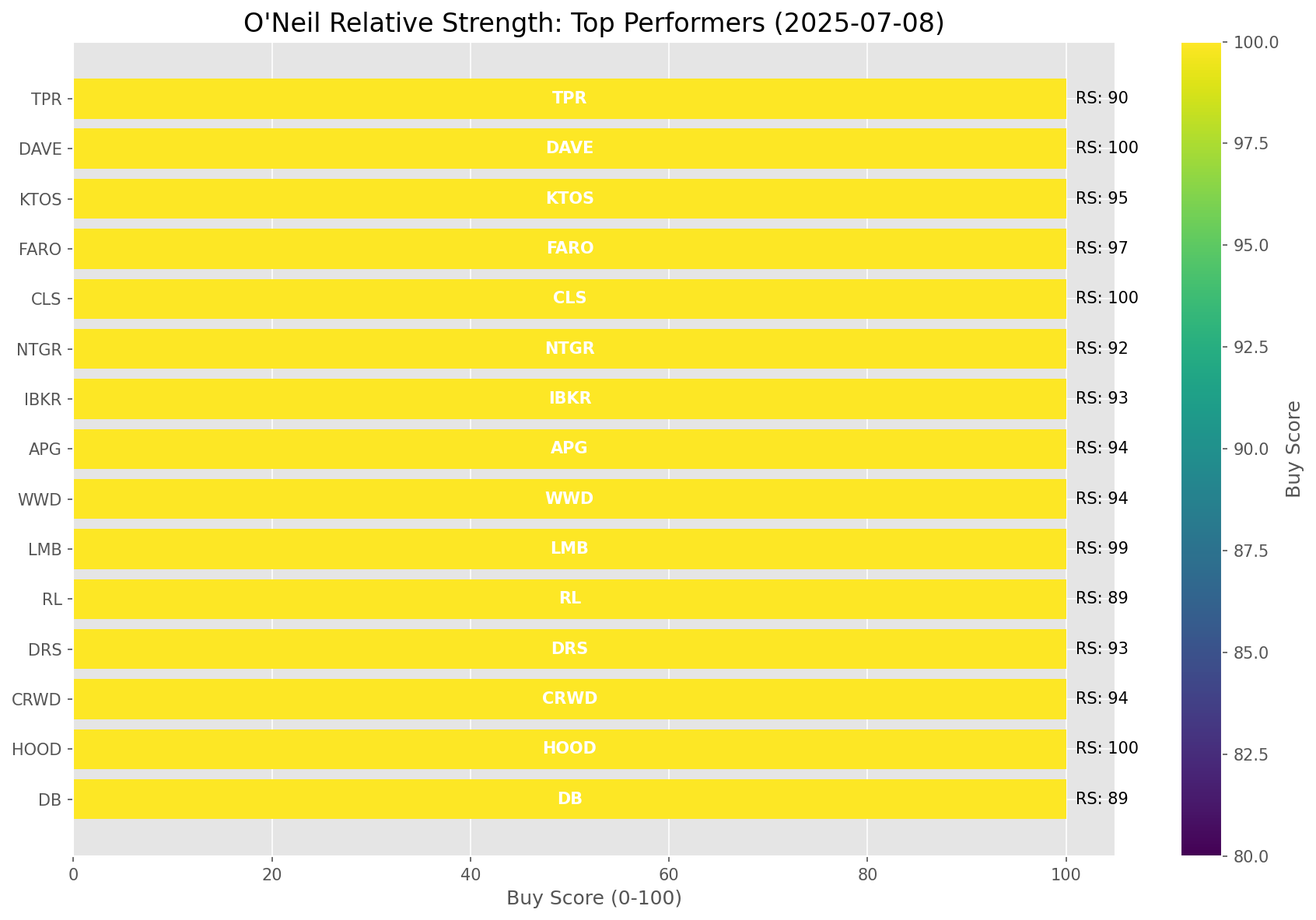
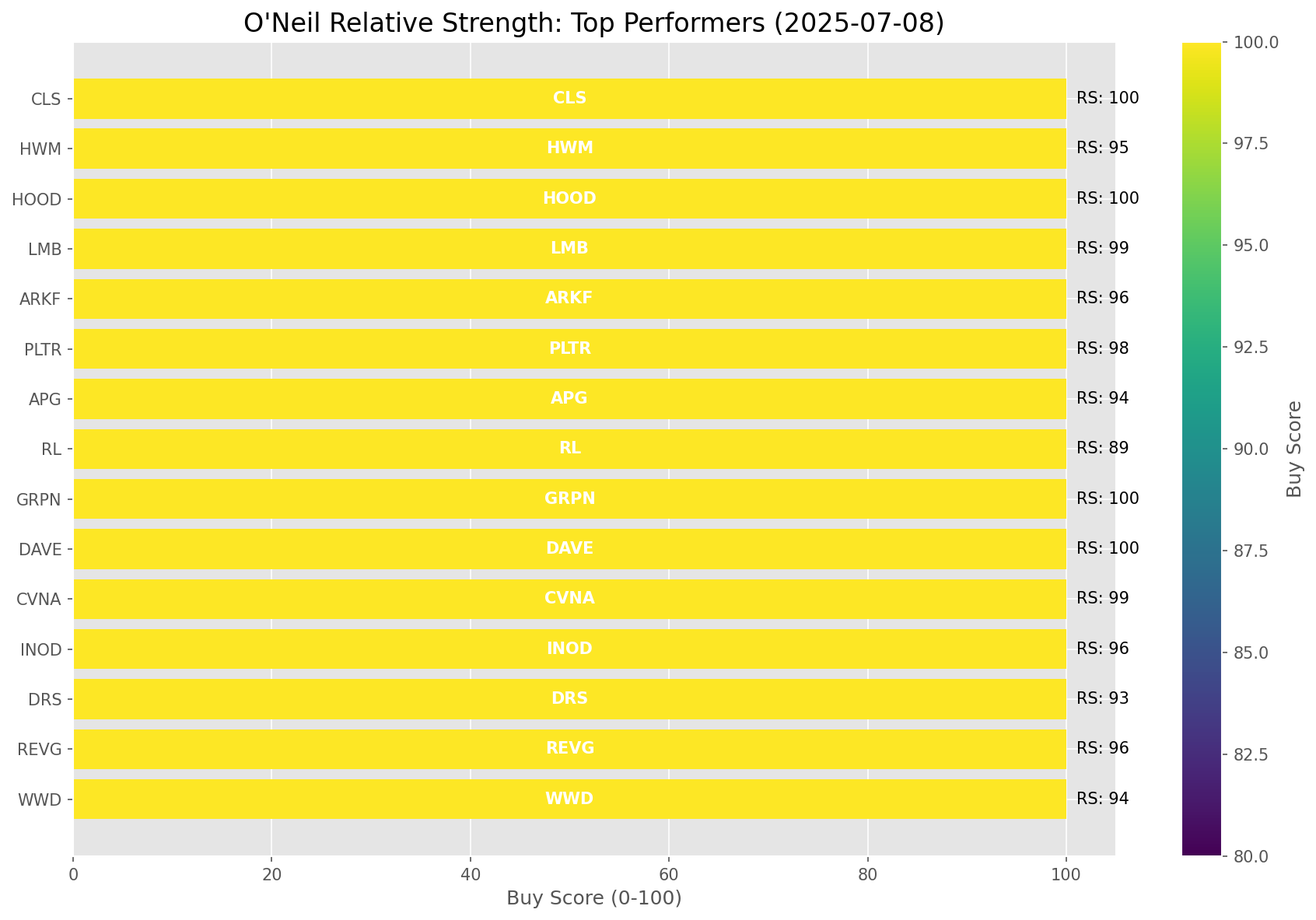
Add market report for 2025-07-08

diff --git a/oneil_relative_strength_report_2025-07-08.md b/oneil_relative_strength_report_2025-07-08.md
@@ -49,41 +49,41 @@ Based on William O'Neil's Relative Strength Methodology
 
 | ETF | Strength | RS Rating | Performance | Above Key MAs | Trend | Sector |
 |-----|----------|-----------|-------------|--------------|-------|--------|
-| [ARKW](https://www.tradingview.com/chart/?symbol=ARKW) | 98.5 | 97.0 | 72.41% | 10d ✓, 50d ✓, 200d ✓ | ↗ | Next Generation Internet |
-| [ARKF](https://www.tradingview.com/chart/?symbol=ARKF) | 98.0 | 96.0 | 68.47% | 10d ✓, 50d ✓, 200d ✓ | ↗ | Fintech Innovation |
-| [ARKK](https://www.tradingview.com/chart/?symbol=ARKK) | 98.0 | 96.0 | 68.72% | 10d ✓, 50d ✓, 200d ✓ | ↗ | Innovation |
-| [BLOK](https://www.tradingview.com/chart/?symbol=BLOK) | 96.5 | 93.0 | 55.71% | 10d ✓, 50d ✓, 200d ✓ | ↗ | Blockchain & Cryptocurrency |
-| [XLK](https://www.tradingview.com/chart/?symbol=XLK) | 93.5 | 87.0 | 40.34% | 10d ✓, 50d ✓, 200d ✓ | ↗ | Technology |
-| [AIQ](https://www.tradingview.com/chart/?symbol=AIQ) | 91.0 | 82.0 | 34.60% | 10d ✓, 50d ✓, 200d ✓ | ↗ | Artificial Intelligence & Technology |
-| [JETS](https://www.tradingview.com/chart/?symbol=JETS) | 90.0 | 80.0 | 32.36% | 10d ✓, 50d ✓, 200d ✓ | ↗ | Airlines |
-| [CIBR](https://www.tradingview.com/chart/?symbol=CIBR) | 89.5 | 79.0 | 31.39% | 10d ✓, 50d ✓, 200d ✓ | ↗ | Cybersecurity |
-| [URA](https://www.tradingview.com/chart/?symbol=URA) | 89.1 | 98.0 | 78.41% | 10d ✗, 50d ✓, 200d ✓ | ↗ | Uranium |
-| [PAVE](https://www.tradingview.com/chart/?symbol=PAVE) | 88.0 | 76.0 | 29.51% | 10d ✓, 50d ✓, 200d ✓ | ↗ | Infrastructure |
-| [XLI](https://www.tradingview.com/chart/?symbol=XLI) | 86.0 | 72.0 | 26.36% | 10d ✓, 50d ✓, 200d ✓ | ↗ | Industrial |
-| [SLV](https://www.tradingview.com/chart/?symbol=SLV) | 83.5 | 67.0 | 22.90% | 10d ✓, 50d ✓, 200d ✓ | ↗ | Silver |
-| [IYZ](https://www.tradingview.com/chart/?symbol=IYZ) | 79.5 | 59.0 | 19.17% | 10d ✓, 50d ✓, 200d ✓ | ↗ | Telecommunications |
-| [XLY](https://www.tradingview.com/chart/?symbol=XLY) | 79.5 | 59.0 | 19.20% | 10d ✓, 50d ✓, 200d ✓ | ↗ | Consumer Discretionary |
-| [XLF](https://www.tradingview.com/chart/?symbol=XLF) | 78.5 | 57.0 | 18.27% | 10d ✓, 50d ✓, 200d ✓ | ↗ | Financial |
-| [SOXX](https://www.tradingview.com/chart/?symbol=SOXX) | 76.5 | 93.0 | 54.64% | 10d ✓, 50d ✓, 200d ✓ | ↘ | Semiconductors |
-| [XLC](https://www.tradingview.com/chart/?symbol=XLC) | 72.6 | 65.0 | 22.14% | 10d ✗, 50d ✓, 200d ✓ | ↗ | Communications |
-| [KWEB](https://www.tradingview.com/chart/?symbol=KWEB) | 71.0 | 42.0 | 10.28% | 10d ✓, 50d ✓, 200d ✓ | ↗ | Chinese Internet |
-| [ARKG](https://www.tradingview.com/chart/?symbol=ARKG) | 70.0 | 80.0 | 32.05% | 10d ✓, 50d ✓, 200d ✓ | ↘ | Genomics |
+| [ARKW](https://www.tradingview.com/chart/?symbol=ARKW) | 98.5 | 97.0 | 72.71% | 10d ✓, 50d ✓, 200d ✓ | ↗ | Next Generation Internet |
+| [ARKK](https://www.tradingview.com/chart/?symbol=ARKK) | 98.0 | 96.0 | 69.05% | 10d ✓, 50d ✓, 200d ✓ | ↗ | Innovation |
+| [ARKF](https://www.tradingview.com/chart/?symbol=ARKF) | 98.0 | 96.0 | 68.74% | 10d ✓, 50d ✓, 200d ✓ | ↗ | Fintech Innovation |
+| [BLOK](https://www.tradingview.com/chart/?symbol=BLOK) | 96.5 | 93.0 | 56.07% | 10d ✓, 50d ✓, 200d ✓ | ↗ | Blockchain & Cryptocurrency |
+| [XLK](https://www.tradingview.com/chart/?symbol=XLK) | 93.5 | 87.0 | 40.53% | 10d ✓, 50d ✓, 200d ✓ | ↗ | Technology |
+| [AIQ](https://www.tradingview.com/chart/?symbol=AIQ) | 91.0 | 82.0 | 34.81% | 10d ✓, 50d ✓, 200d ✓ | ↗ | Artificial Intelligence & Technology |
+| [JETS](https://www.tradingview.com/chart/?symbol=JETS) | 90.0 | 80.0 | 32.56% | 10d ✓, 50d ✓, 200d ✓ | ↗ | Airlines |
+| [CIBR](https://www.tradingview.com/chart/?symbol=CIBR) | 89.5 | 79.0 | 31.53% | 10d ✓, 50d ✓, 200d ✓ | ↗ | Cybersecurity |
+| [URA](https://www.tradingview.com/chart/?symbol=URA) | 88.6 | 97.0 | 77.81% | 10d ✗, 50d ✓, 200d ✓ | ↗ | Uranium |
+| [PAVE](https://www.tradingview.com/chart/?symbol=PAVE) | 88.0 | 76.0 | 29.33% | 10d ✓, 50d ✓, 200d ✓ | ↗ | Infrastructure |
+| [XLI](https://www.tradingview.com/chart/?symbol=XLI) | 85.5 | 71.0 | 26.22% | 10d ✓, 50d ✓, 200d ✓ | ↗ | Industrial |
+| [SLV](https://www.tradingview.com/chart/?symbol=SLV) | 83.0 | 66.0 | 22.93% | 10d ✓, 50d ✓, 200d ✓ | ↗ | Silver |
+| [XLY](https://www.tradingview.com/chart/?symbol=XLY) | 79.5 | 59.0 | 19.08% | 10d ✓, 50d ✓, 200d ✓ | ↗ | Consumer Discretionary |
+| [IYZ](https://www.tradingview.com/chart/?symbol=IYZ) | 79.5 | 59.0 | 19.13% | 10d ✓, 50d ✓, 200d ✓ | ↗ | Telecommunications |
+| [SOXX](https://www.tradingview.com/chart/?symbol=SOXX) | 76.5 | 93.0 | 54.37% | 10d ✓, 50d ✓, 200d ✓ | ↘ | Semiconductors |
+| [XLC](https://www.tradingview.com/chart/?symbol=XLC) | 72.6 | 65.0 | 22.41% | 10d ✗, 50d ✓, 200d ✓ | ↗ | Communications |
+| [KWEB](https://www.tradingview.com/chart/?symbol=KWEB) | 70.5 | 41.0 | 10.16% | 10d ✓, 50d ✓, 200d ✓ | ↗ | Chinese Internet |
+| [ARKG](https://www.tradingview.com/chart/?symbol=ARKG) | 69.5 | 79.0 | 32.05% | 10d ✓, 50d ✓, 200d ✓ | ↘ | Genomics |
+| [XLF](https://www.tradingview.com/chart/?symbol=XLF) | 68.6 | 57.0 | 18.12% | 10d ✗, 50d ✓, 200d ✓ | ↗ | Financial |
 | [IYT](https://www.tradingview.com/chart/?symbol=IYT) | 65.0 | 70.0 | 25.18% | 10d ✓, 50d ✓, 200d ✓ | ↘ | Transportation |
-| [XLP](https://www.tradingview.com/chart/?symbol=XLP) | 64.0 | 28.0 | 3.87% | 10d ✓, 50d ✓, 200d ✓ | ↗ | Consumer Staples |
-| [ICLN](https://www.tradingview.com/chart/?symbol=ICLN) | 62.0 | 64.0 | 21.51% | 10d ✓, 50d ✓, 200d ✓ | ↘ | Clean Energy |
-| [XLU](https://www.tradingview.com/chart/?symbol=XLU) | 60.1 | 40.0 | 9.15% | 10d ✗, 50d ✓, 200d ✓ | ↗ | Utilities |
-| [XLB](https://www.tradingview.com/chart/?symbol=XLB) | 57.5 | 55.0 | 17.26% | 10d ✓, 50d ✓, 200d ✓ | ↘ | Materials |
-| [XLE](https://www.tradingview.com/chart/?symbol=XLE) | 53.0 | 46.0 | 12.11% | 10d ✓, 50d ✓, 200d ✓ | ↘ | Energy |
-| [GLD](https://www.tradingview.com/chart/?symbol=GLD) | 49.7 | 39.0 | 8.79% | 10d ✗, 50d ✗, 200d ✓ | ↗ | Gold |
+| [ICLN](https://www.tradingview.com/chart/?symbol=ICLN) | 61.5 | 63.0 | 21.46% | 10d ✓, 50d ✓, 200d ✓ | ↘ | Clean Energy |
+| [XLU](https://www.tradingview.com/chart/?symbol=XLU) | 59.6 | 39.0 | 8.87% | 10d ✗, 50d ✓, 200d ✓ | ↗ | Utilities |
+| [XLB](https://www.tradingview.com/chart/?symbol=XLB) | 57.5 | 55.0 | 17.14% | 10d ✓, 50d ✓, 200d ✓ | ↘ | Materials |
+| [XLP](https://www.tradingview.com/chart/?symbol=XLP) | 53.6 | 27.0 | 3.68% | 10d ✓, 50d ✗, 200d ✓ | ↗ | Consumer Staples |
+| [XLE](https://www.tradingview.com/chart/?symbol=XLE) | 52.5 | 45.0 | 12.38% | 10d ✓, 50d ✓, 200d ✓ | ↘ | Energy |
+| [GLD](https://www.tradingview.com/chart/?symbol=GLD) | 49.2 | 38.0 | 8.74% | 10d ✗, 50d ✗, 200d ✓ | ↗ | Gold |
 | [DBC](https://www.tradingview.com/chart/?symbol=DBC) | 47.0 | 34.0 | 6.59% | 10d ✓, 50d ✓, 200d ✓ | ↘ | Commodities |
-| [IBB](https://www.tradingview.com/chart/?symbol=IBB) | 40.8 | 42.0 | 10.56% | 10d ✓, 50d ✓, 200d ✗ | ↘ | Biotechnology |
-| [IYR](https://www.tradingview.com/chart/?symbol=IYR) | 36.8 | 34.0 | 6.86% | 10d ✓, 50d ✓, 200d ✗ | ↘ | Real Estate |
-| [ITB](https://www.tradingview.com/chart/?symbol=ITB) | 33.3 | 27.0 | 3.76% | 10d ✓, 50d ✓, 200d ✗ | ↘ | Home Construction |
-| [XLV](https://www.tradingview.com/chart/?symbol=XLV) | 28.8 | 18.0 | -0.13% | 10d ✓, 50d ✓, 200d ✗ | ↘ | Healthcare |
-| [DBA](https://www.tradingview.com/chart/?symbol=DBA) | 24.5 | 9.0 | -5.41% | 10d ✗, 50d ✗, 200d ✗ | ↗ | Agriculture |
-| [UUP](https://www.tradingview.com/chart/?symbol=UUP) | 15.4 | 11.0 | -4.12% | 10d ✓, 50d ✗, 200d ✗ | ↘ | U.S. Dollar |
-| [BIL](https://www.tradingview.com/chart/?symbol=BIL) | 9.5 | 19.0 | 0.04% | 10d ✗, 50d ✗, 200d ✗ | ↘ | Short-term Treasuries |
-| [TLT](https://www.tradingview.com/chart/?symbol=TLT) | 4.0 | 8.0 | -7.57% | 10d ✗, 50d ✗, 200d ✗ | ↘ | Long-term Treasuries |
+| [IBB](https://www.tradingview.com/chart/?symbol=IBB) | 40.8 | 42.0 | 10.39% | 10d ✓, 50d ✓, 200d ✗ | ↘ | Biotechnology |
+| [ITB](https://www.tradingview.com/chart/?symbol=ITB) | 33.3 | 27.0 | 3.47% | 10d ✓, 50d ✓, 200d ✗ | ↘ | Home Construction |
+| [XLV](https://www.tradingview.com/chart/?symbol=XLV) | 28.8 | 18.0 | -0.23% | 10d ✓, 50d ✓, 200d ✗ | ↘ | Healthcare |
+| [IYR](https://www.tradingview.com/chart/?symbol=IYR) | 26.9 | 34.0 | 6.52% | 10d ✗, 50d ✓, 200d ✗ | ↘ | Real Estate |
+| [DBA](https://www.tradingview.com/chart/?symbol=DBA) | 25.0 | 10.0 | -4.60% | 10d ✗, 50d ✗, 200d ✗ | ↗ | Agriculture |
+| [UUP](https://www.tradingview.com/chart/?symbol=UUP) | 15.4 | 11.0 | -4.14% | 10d ✓, 50d ✗, 200d ✗ | ↘ | U.S. Dollar |
+| [BIL](https://www.tradingview.com/chart/?symbol=BIL) | 9.5 | 19.0 | 0.03% | 10d ✗, 50d ✗, 200d ✗ | ↘ | Short-term Treasuries |
+| [TLT](https://www.tradingview.com/chart/?symbol=TLT) | 4.0 | 8.0 | -7.35% | 10d ✗, 50d ✗, 200d ✗ | ↘ | Long-term Treasuries |
 
 ### **Sector ETF Performance Interpretation**
 
@@ -98,159 +98,139 @@ This table shows the relative strength metrics for different market sectors base
 
 ### **Current Sector Leadership**
 
-The current market leadership is coming from the following sectors: **Next Generation Internet, Fintech Innovation, Innovation**.
+The current market leadership is coming from the following sectors: **Next Generation Internet, Innovation, Fintech Innovation**.
 
-The **Next Generation Internet** sector (represented by **ARKW**) is showing particularly strong relative strength with an RS rating of 97.0 and performance of 72.41% vs. the S&P 500. This sector is trading above its 10-day, 50-day, 200-day moving average(s). Investors should consider focusing on high RS stocks within these leading sectors for potential outperformance.
+The **Next Generation Internet** sector (represented by **ARKW**) is showing particularly strong relative strength with an RS rating of 97.0 and performance of 72.71% vs. the S&P 500. This sector is trading above its 10-day, 50-day, 200-day moving average(s). Investors should consider focusing on high RS stocks within these leading sectors for potential outperformance.
 
 ---
 
 ## **Buy Recommendations**
 
-The following 38 stocks show exceptional relative strength:
+The following 42 stocks show exceptional relative strength:
 
 | RS Rating | Buy Score | Current Price | Chart | Name | Ticker |
 |-----------|-----------|---------------|-------|------|--------|
-| 100 | 100 | $91.47 | [Chart](https://www.tradingview.com/chart/?symbol=HOOD) | Robinhood Markets, Inc. Class A Common Stock | HOOD |
-| 100 | 100 | $154.49 | [Chart](https://www.tradingview.com/chart/?symbol=CLS) | Celestica, Inc. | CLS |
-| 100 | 100 | $261.25 | [Chart](https://www.tradingview.com/chart/?symbol=DAVE) | Dave Inc. Class A Common Stock | DAVE |
-| 100 | 100 | $36.92 | [Chart](https://www.tradingview.com/chart/?symbol=GRPN) | Groupon, Inc.Common Stock | GRPN |
-| 99 | 100 | $143.84 | [Chart](https://www.tradingview.com/chart/?symbol=LMB) | Limbach Holdings, Inc Common Stock | LMB |
-| 99 | 100 | $104.56 | [Chart](https://www.tradingview.com/chart/?symbol=RBLX) | Roblox Corporation | RBLX |
-| 99 | 100 | $345.50 | [Chart](https://www.tradingview.com/chart/?symbol=CVNA) | Carvana Co. | CVNA |
-| 99 | 100 | $528.52 | [Chart](https://www.tradingview.com/chart/?symbol=GEV) | GE Vernova Inc. | GEV |
-| 99 | 100 | $192.39 | [Chart](https://www.tradingview.com/chart/?symbol=NET) | Cloudflare, Inc. Class A common stock, par value $0.001 per share | NET |
-| 98 | 100 | $139.12 | [Chart](https://www.tradingview.com/chart/?symbol=PLTR) | Palantir Technologies Inc. Class A Common Stock | PLTR |
-| 97 | 100 | $43.95 | [Chart](https://www.tradingview.com/chart/?symbol=FARO) | Faro Technologies Inc | FARO |
-| 96 | 100 | $50.17 | [Chart](https://www.tradingview.com/chart/?symbol=ARKF) | ARK Fintech Innovation ETF | ARKF |
-| 96 | 100 | $50.84 | [Chart](https://www.tradingview.com/chart/?symbol=INOD) | Innodata Inc. | INOD |
-| 95 | 100 | $44.41 | [Chart](https://www.tradingview.com/chart/?symbol=KTOS) | Kratos Defense & Security Solutions, Inc. | KTOS |
-| 94 | 100 | $506.00 | [Chart](https://www.tradingview.com/chart/?symbol=CRWD) | CrowdStrike Holdings, Inc. Class A Common Stock | CRWD |
-| 94 | 100 | $249.92 | [Chart](https://www.tradingview.com/chart/?symbol=WWD) | Woodward, Inc. | WWD |
-| 94 | 100 | $34.14 | [Chart](https://www.tradingview.com/chart/?symbol=APG) | APi Group Corporation | APG |
-| 94 | 100 | $131.31 | [Chart](https://www.tradingview.com/chart/?symbol=FUTU) | Futu Holdings Limited American Depositary Shares | FUTU |
-| 93 | 100 | $46.37 | [Chart](https://www.tradingview.com/chart/?symbol=DRS) | Leonardo DRS, Inc. Common Stock | DRS |
-| 93 | 100 | $56.98 | [Chart](https://www.tradingview.com/chart/?symbol=IBKR) | Interactive Brokers Group, Inc. Class A Common Stock | IBKR |
-| 92 | 100 | $30.04 | [Chart](https://www.tradingview.com/chart/?symbol=NTGR) | NETGEAR, Inc. | NTGR |
-| 92 | 100 | $43.44 | [Chart](https://www.tradingview.com/chart/?symbol=KD) | Kyndryl Holdings, Inc. | KD |
-| 90 | 100 | $91.99 | [Chart](https://www.tradingview.com/chart/?symbol=TPR) | Tapestry, Inc. Common Stock | TPR |
-| 89 | 100 | $29.43 | [Chart](https://www.tradingview.com/chart/?symbol=DB) | Deutsche Bank Aktiengesellschaft | DB |
-| 89 | 100 | $285.46 | [Chart](https://www.tradingview.com/chart/?symbol=RL) | Ralph Lauren Corporation | RL |
-| 87 | 100 | $28.73 | [Chart](https://www.tradingview.com/chart/?symbol=SRAD) | Sportradar Group AG Class A Ordinary Shares | SRAD |
-| 86 | 99 | $29.97 | [Chart](https://www.tradingview.com/chart/?symbol=CAE) | CAE INC | CAE |
-| 86 | 99 | $18.30 | [Chart](https://www.tradingview.com/chart/?symbol=BCS) | Barclays PLC | BCS |
-| 85 | 99 | $96.00 | [Chart](https://www.tradingview.com/chart/?symbol=SNEX) | StoneX Group Inc. Common Stock | SNEX |
-| 86 | 98 | $63.47 | [Chart](https://www.tradingview.com/chart/?symbol=CAKE) | Cheesecake Factory (The) | CAKE |
-| 86 | 97 | $25.14 | [Chart](https://www.tradingview.com/chart/?symbol=KAR) | OPENLANE, Inc | KAR |
+| 100 | 100 | $262.07 | [Chart](https://www.tradingview.com/chart/?symbol=DAVE) | Dave Inc. Class A Common Stock | DAVE |
+| 100 | 100 | $37.37 | [Chart](https://www.tradingview.com/chart/?symbol=GRPN) | Groupon, Inc.Common Stock | GRPN |
+| 100 | 100 | $91.27 | [Chart](https://www.tradingview.com/chart/?symbol=HOOD) | Robinhood Markets, Inc. Class A Common Stock | HOOD |
+| 100 | 100 | $155.70 | [Chart](https://www.tradingview.com/chart/?symbol=CLS) | Celestica, Inc. | CLS |
+| 99 | 100 | $345.92 | [Chart](https://www.tradingview.com/chart/?symbol=CVNA) | Carvana Co. | CVNA |
+| 99 | 100 | $143.48 | [Chart](https://www.tradingview.com/chart/?symbol=LMB) | Limbach Holdings, Inc Common Stock | LMB |
+| 99 | 100 | $530.00 | [Chart](https://www.tradingview.com/chart/?symbol=GEV) | GE Vernova Inc. | GEV |
+| 99 | 100 | $104.94 | [Chart](https://www.tradingview.com/chart/?symbol=RBLX) | Roblox Corporation | RBLX |
+| 99 | 100 | $192.81 | [Chart](https://www.tradingview.com/chart/?symbol=NET) | Cloudflare, Inc. Class A common stock, par value $0.001 per share | NET |
+| 98 | 100 | $139.71 | [Chart](https://www.tradingview.com/chart/?symbol=PLTR) | Palantir Technologies Inc. Class A Common Stock | PLTR |
+| 98 | 100 | $312.44 | [Chart](https://www.tradingview.com/chart/?symbol=ZS) | Zscaler, Inc. Common Stock | ZS |
+| 97 | 100 | $43.89 | [Chart](https://www.tradingview.com/chart/?symbol=FARO) | Faro Technologies Inc | FARO |
+| 96 | 100 | $49.68 | [Chart](https://www.tradingview.com/chart/?symbol=REVG) | REV Group, Inc. | REVG |
+| 96 | 100 | $50.97 | [Chart](https://www.tradingview.com/chart/?symbol=INOD) | Innodata Inc. | INOD |
+| 96 | 100 | $50.25 | [Chart](https://www.tradingview.com/chart/?symbol=ARKF) | ARK Fintech Innovation ETF | ARKF |
+| 95 | 100 | $179.46 | [Chart](https://www.tradingview.com/chart/?symbol=HWM) | Howmet Aerospace Inc. | HWM |
+| 95 | 100 | $44.34 | [Chart](https://www.tradingview.com/chart/?symbol=KTOS) | Kratos Defense & Security Solutions, Inc. | KTOS |
+| 94 | 100 | $249.85 | [Chart](https://www.tradingview.com/chart/?symbol=WWD) | Woodward, Inc. | WWD |
+| 94 | 100 | $34.32 | [Chart](https://www.tradingview.com/chart/?symbol=APG) | APi Group Corporation | APG |
+| 94 | 100 | $507.71 | [Chart](https://www.tradingview.com/chart/?symbol=CRWD) | CrowdStrike Holdings, Inc. Class A Common Stock | CRWD |
+| 93 | 100 | $46.44 | [Chart](https://www.tradingview.com/chart/?symbol=DRS) | Leonardo DRS, Inc. Common Stock | DRS |
+| 93 | 100 | $56.62 | [Chart](https://www.tradingview.com/chart/?symbol=IBKR) | Interactive Brokers Group, Inc. Class A Common Stock | IBKR |
+| 93 | 100 | $130.53 | [Chart](https://www.tradingview.com/chart/?symbol=FUTU) | Futu Holdings Limited American Depositary Shares | FUTU |
+| 92 | 100 | $30.24 | [Chart](https://www.tradingview.com/chart/?symbol=NTGR) | NETGEAR, Inc. | NTGR |
+| 92 | 100 | $102.23 | [Chart](https://www.tradingview.com/chart/?symbol=SANM) | Sanmina  Corp | SANM |
+| 92 | 100 | $43.38 | [Chart](https://www.tradingview.com/chart/?symbol=KD) | Kyndryl Holdings, Inc. | KD |
+| 90 | 100 | $92.21 | [Chart](https://www.tradingview.com/chart/?symbol=TPR) | Tapestry, Inc. Common Stock | TPR |
+| 89 | 100 | $284.92 | [Chart](https://www.tradingview.com/chart/?symbol=RL) | Ralph Lauren Corporation | RL |
+| 89 | 100 | $29.40 | [Chart](https://www.tradingview.com/chart/?symbol=DB) | Deutsche Bank Aktiengesellschaft | DB |
+| 88 | 100 | $28.84 | [Chart](https://www.tradingview.com/chart/?symbol=SRAD) | Sportradar Group AG Class A Ordinary Shares | SRAD |
+| 86 | 99 | $29.96 | [Chart](https://www.tradingview.com/chart/?symbol=CAE) | CAE INC | CAE |
+| 86 | 99 | $18.31 | [Chart](https://www.tradingview.com/chart/?symbol=BCS) | Barclays PLC | BCS |
+| 85 | 99 | $95.96 | [Chart](https://www.tradingview.com/chart/?symbol=SNEX) | StoneX Group Inc. Common Stock | SNEX |
+| 86 | 97 | $25.00 | [Chart](https://www.tradingview.com/chart/?symbol=KAR) | OPENLANE, Inc | KAR |
+| 85 | 97 | $63.22 | [Chart](https://www.tradingview.com/chart/?symbol=CAKE) | Cheesecake Factory (The) | CAKE |
 | 84 | 96 | $59.71 | [Chart](https://www.tradingview.com/chart/?symbol=SHLD) | Global X Defense Tech ETF | SHLD |
-| 86 | 95 | $65.70 | [Chart](https://www.tradingview.com/chart/?symbol=RYTM) | Rhythm Pharmaceuticals, Inc. Common Stock | RYTM |
-| 84 | 95 | $76.46 | [Chart](https://www.tradingview.com/chart/?symbol=CTVA) | Corteva, Inc. Common Stock | CTVA |
-| 83 | 93 | $35.40 | [Chart](https://www.tradingview.com/chart/?symbol=ATAT) | Atour Lifestyle Holdings Limited American Depositary Shares | ATAT |
-| 82 | 92 | $81.75 | [Chart](https://www.tradingview.com/chart/?symbol=WFC) | Wells Fargo & Co. | WFC |
-| 81 | 92 | $5712.29 | [Chart](https://www.tradingview.com/chart/?symbol=BKNG) | Booking Holdings Inc. Common Stock | BKNG |
-| 80 | 90 | $266.72 | [Chart](https://www.tradingview.com/chart/?symbol=FDN) | First Trust Dow Jones Internet Index Fund ETF | FDN |
+| 84 | 95 | $76.45 | [Chart](https://www.tradingview.com/chart/?symbol=CTVA) | Corteva, Inc. Common Stock | CTVA |
+| 85 | 94 | $65.14 | [Chart](https://www.tradingview.com/chart/?symbol=RYTM) | Rhythm Pharmaceuticals, Inc. Common Stock | RYTM |
+| 82 | 92 | $35.25 | [Chart](https://www.tradingview.com/chart/?symbol=ATAT) | Atour Lifestyle Holdings Limited American Depositary Shares | ATAT |
+| 81 | 92 | $5713.33 | [Chart](https://www.tradingview.com/chart/?symbol=BKNG) | Booking Holdings Inc. Common Stock | BKNG |
+| 81 | 91 | $81.59 | [Chart](https://www.tradingview.com/chart/?symbol=WFC) | Wells Fargo & Co. | WFC |
+| 80 | 90 | $267.17 | [Chart](https://www.tradingview.com/chart/?symbol=FDN) | First Trust Dow Jones Internet Index Fund ETF | FDN |
 
 ---
 
 
 ## **Sell Recommendations**
 
-The following 93 stocks show deteriorating relative strength:
+The following 69 stocks show deteriorating relative strength:
 
 | RS Rating | Sell Score | Current Price | Chart | Name | Ticker |
 |-----------|------------|---------------|-------|------|--------|
-| 1 | 100 | $25.34 | [Chart](https://www.tradingview.com/chart/?symbol=QID) | ProShares UltraShort QQQ | QID |
-| 1 | 100 | $14.21 | [Chart](https://www.tradingview.com/chart/?symbol=NVDS) | Investment Managers Series Trust II Tradr 1.5X Short NVDA Daily ETF | NVDS |
-| 1 | 100 | $41.00 | [Chart](https://www.tradingview.com/chart/?symbol=SDOW) | ProShares UltraPro Short Dow 30 | SDOW |
-| 1 | 100 | $25.91 | [Chart](https://www.tradingview.com/chart/?symbol=TECS) | Direxion Daily Technology Bear 3x Shares | TECS |
-| 2 | 100 | $24.05 | [Chart](https://www.tradingview.com/chart/?symbol=DXD) | ProShares UltraShort Dow 30 | DXD |
-| 2 | 100 | $16.56 | [Chart](https://www.tradingview.com/chart/?symbol=SDS) | ProShares UltraShort S&P500 | SDS |
-| 2 | 100 | $19.41 | [Chart](https://www.tradingview.com/chart/?symbol=BITI) | ProShares Short Bitcoin ETF | BITI |
-| 2 | 100 | $33.69 | [Chart](https://www.tradingview.com/chart/?symbol=PSQ) | ProShares Short QQQ | PSQ |
-| 2 | 100 | $35.49 | [Chart](https://www.tradingview.com/chart/?symbol=SARK) | Investment Managers Series Trust II Tradr 1X Short Innovation Daily ETF | SARK |
-| 3 | 100 | $43.97 | [Chart](https://www.tradingview.com/chart/?symbol=LINE) | Lineage, Inc. Common Stock | LINE |
-| 3 | 100 | $24.82 | [Chart](https://www.tradingview.com/chart/?symbol=CRTO) | Criteo S.A. | CRTO |
+| 1 | 100 | $25.82 | [Chart](https://www.tradingview.com/chart/?symbol=TECS) | Direxion Daily Technology Bear 3x Shares | TECS |
+| 1 | 100 | $16.57 | [Chart](https://www.tradingview.com/chart/?symbol=SDS) | ProShares UltraShort S&P500 | SDS |
+| 1 | 100 | $25.30 | [Chart](https://www.tradingview.com/chart/?symbol=QID) | ProShares UltraShort QQQ | QID |
+| 1 | 100 | $41.08 | [Chart](https://www.tradingview.com/chart/?symbol=SDOW) | ProShares UltraPro Short Dow 30 | SDOW |
+| 1 | 100 | $14.16 | [Chart](https://www.tradingview.com/chart/?symbol=NVDS) | Investment Managers Series Trust II Tradr 1.5X Short NVDA Daily ETF | NVDS |
+| 2 | 100 | $19.43 | [Chart](https://www.tradingview.com/chart/?symbol=BITI) | ProShares Short Bitcoin ETF | BITI |
+| 2 | 100 | $33.68 | [Chart](https://www.tradingview.com/chart/?symbol=PSQ) | ProShares Short QQQ | PSQ |
+| 2 | 100 | $24.08 | [Chart](https://www.tradingview.com/chart/?symbol=DXD) | ProShares UltraShort Dow 30 | DXD |
+| 2 | 100 | $35.36 | [Chart](https://www.tradingview.com/chart/?symbol=SARK) | Investment Managers Series Trust II Tradr 1X Short Innovation Daily ETF | SARK |
 | 3 | 100 | $39.59 | [Chart](https://www.tradingview.com/chart/?symbol=SH) | ProShares Short S&P500 | SH |
-| 3 | 100 | $35.57 | [Chart](https://www.tradingview.com/chart/?symbol=IBTA) | Ibotta, Inc. | IBTA |
-| 4 | 100 | $10.26 | [Chart](https://www.tradingview.com/chart/?symbol=LBTYK) | Liberty Global Ltd. Class C Common Shares | LBTYK |
-| 4 | 100 | $25.41 | [Chart](https://www.tradingview.com/chart/?symbol=DOG) | ProShares Short Dow30 | DOG |
-| 4 | 100 | $12.75 | [Chart](https://www.tradingview.com/chart/?symbol=CCRN) | Cross Country Healthcare Inc | CCRN |
-| 5 | 100 | $63.68 | [Chart](https://www.tradingview.com/chart/?symbol=ZROZ) | PIMCO 25+ Year Zero Coupon U.S. Treasury Index Exchange-Traded Fund | ZROZ |
-| 5 | 100 | $17.80 | [Chart](https://www.tradingview.com/chart/?symbol=APLS) | Apellis Pharmaceuticals, Inc. Common Stock | APLS |
-| 5 | 100 | $51.81 | [Chart](https://www.tradingview.com/chart/?symbol=LW) | Lamb Weston Holdings, Inc. | LW |
-| 5 | 100 | $17.34 | [Chart](https://www.tradingview.com/chart/?symbol=HP) | Helmerich & Payne, Inc. | HP |
-| 6 | 100 | $33.55 | [Chart](https://www.tradingview.com/chart/?symbol=CYTK) | Cytokinetics Inc. | CYTK |
-| 6 | 100 | $82.69 | [Chart](https://www.tradingview.com/chart/?symbol=LNTH) | Lantheus Holdings, Inc | LNTH |
-| 6 | 100 | $13.75 | [Chart](https://www.tradingview.com/chart/?symbol=EIC) | Eagle Point Income Company Inc. | EIC |
-| 8 | 100 | $85.82 | [Chart](https://www.tradingview.com/chart/?symbol=TLT) | iShares 20+ Year Treasury Bond ETF | TLT |
-| 8 | 100 | $14.70 | [Chart](https://www.tradingview.com/chart/?symbol=VRE) | Veris Residential, Inc. | VRE |
-| 8 | 100 | $52.43 | [Chart](https://www.tradingview.com/chart/?symbol=CNMD) | CONMED Corporation | CNMD |
-| 9 | 100 | $45.63 | [Chart](https://www.tradingview.com/chart/?symbol=CWT) | California Water Service | CWT |
-| 10 | 100 | $40.79 | [Chart](https://www.tradingview.com/chart/?symbol=POR) | Portland General Electric Company | POR |
-| 10 | 100 | $10.39 | [Chart](https://www.tradingview.com/chart/?symbol=NMZ) | Nuveen Municipal High Income Opportunity Fund | NMZ |
-| 10 | 100 | $131.58 | [Chart](https://www.tradingview.com/chart/?symbol=KMB) | Kimberly-Clark Corp. | KMB |
-| 11 | 100 | $10.32 | [Chart](https://www.tradingview.com/chart/?symbol=MUC) | BLACKROCK MUNIHOLDINGS CALIFORNIA QUALITY FUND, INC | MUC |
-| 12 | 100 | $14.35 | [Chart](https://www.tradingview.com/chart/?symbol=BMEZ) | BlackRock Health Sciences Term Trust | BMEZ |
-| 14 | 100 | $17.88 | [Chart](https://www.tradingview.com/chart/?symbol=ZTO) | ZTO Express (Cayman) Inc. American Depositary Shares, each representing one Class A ordinary share | ZTO |
-| 2 | 99 | $10.33 | [Chart](https://www.tradingview.com/chart/?symbol=EMBC) | Embecta Corp. Common Stock | EMBC |
-| 9 | 99 | $38.54 | [Chart](https://www.tradingview.com/chart/?symbol=LKQ) | LKQ Corporation | LKQ |
+| 3 | 100 | $35.91 | [Chart](https://www.tradingview.com/chart/?symbol=IBTA) | Ibotta, Inc. | IBTA |
+| 3 | 100 | $24.79 | [Chart](https://www.tradingview.com/chart/?symbol=CRTO) | Criteo S.A. | CRTO |
+| 3 | 100 | $43.52 | [Chart](https://www.tradingview.com/chart/?symbol=LINE) | Lineage, Inc. Common Stock | LINE |
+| 4 | 100 | $25.42 | [Chart](https://www.tradingview.com/chart/?symbol=DOG) | ProShares Short Dow30 | DOG |
+| 4 | 100 | $12.78 | [Chart](https://www.tradingview.com/chart/?symbol=CCRN) | Cross Country Healthcare Inc | CCRN |
+| 4 | 100 | $10.28 | [Chart](https://www.tradingview.com/chart/?symbol=LBTYK) | Liberty Global Ltd. Class C Common Shares | LBTYK |
+| 5 | 100 | $63.99 | [Chart](https://www.tradingview.com/chart/?symbol=ZROZ) | PIMCO 25+ Year Zero Coupon U.S. Treasury Index Exchange-Traded Fund | ZROZ |
+| 5 | 100 | $52.34 | [Chart](https://www.tradingview.com/chart/?symbol=LW) | Lamb Weston Holdings, Inc. | LW |
+| 7 | 100 | $14.60 | [Chart](https://www.tradingview.com/chart/?symbol=VRE) | Veris Residential, Inc. | VRE |
+| 8 | 100 | $52.45 | [Chart](https://www.tradingview.com/chart/?symbol=CNMD) | CONMED Corporation | CNMD |
+| 9 | 100 | $45.45 | [Chart](https://www.tradingview.com/chart/?symbol=CWT) | California Water Service | CWT |
+| 10 | 100 | $131.40 | [Chart](https://www.tradingview.com/chart/?symbol=KMB) | Kimberly-Clark Corp. | KMB |
+| 12 | 100 | $10.33 | [Chart](https://www.tradingview.com/chart/?symbol=MUC) | BLACKROCK MUNIHOLDINGS CALIFORNIA QUALITY FUND, INC | MUC |
+| 13 | 100 | $14.38 | [Chart](https://www.tradingview.com/chart/?symbol=BMEZ) | BlackRock Health Sciences Term Trust | BMEZ |
+| 8 | 99 | $86.03 | [Chart](https://www.tradingview.com/chart/?symbol=TLT) | iShares 20+ Year Treasury Bond ETF | TLT |
+| 9 | 99 | $38.60 | [Chart](https://www.tradingview.com/chart/?symbol=LKQ) | LKQ Corporation | LKQ |
+| 10 | 99 | $77.00 | [Chart](https://www.tradingview.com/chart/?symbol=CNS) | Cohen & Steers Inc. | CNS |
+| 14 | 99 | $17.87 | [Chart](https://www.tradingview.com/chart/?symbol=ZTO) | ZTO Express (Cayman) Inc. American Depositary Shares, each representing one Class A ordinary share | ZTO |
 | 17 | 99 | $29.12 | [Chart](https://www.tradingview.com/chart/?symbol=SPTS) | SPDR Portfolio Short Term Treasury ETF | SPTS |
-| 5 | 98 | $10.82 | [Chart](https://www.tradingview.com/chart/?symbol=SONO) | Sonos, Inc. Common Stock | SONO |
-| 7 | 98 | $26.61 | [Chart](https://www.tradingview.com/chart/?symbol=VCYT) | Veracyte, Inc. | VCYT |
-| 9 | 98 | $62.01 | [Chart](https://www.tradingview.com/chart/?symbol=ELS) | Equity Lifestyle Properties, Inc. | ELS |
-| 10 | 98 | $14.99 | [Chart](https://www.tradingview.com/chart/?symbol=SEM) | SELECT MEDICAL HOLDINGS CORP | SEM |
-| 18 | 98 | $86.19 | [Chart](https://www.tradingview.com/chart/?symbol=SIGI) | Selective Insurance Group | SIGI |
-| 8 | 97 | $27.50 | [Chart](https://www.tradingview.com/chart/?symbol=GTY) | Getty Realty Corp. | GTY |
-| 8 | 97 | $48.45 | [Chart](https://www.tradingview.com/chart/?symbol=SNY) | Sanofi American Depositary Shares (Each representing one-half of one ordinary share) | SNY |
-| 15 | 97 | $25.29 | [Chart](https://www.tradingview.com/chart/?symbol=SPAB) | SPDR Portfolio Aggregate Bond ETF | SPAB |
+| 17 | 99 | $85.96 | [Chart](https://www.tradingview.com/chart/?symbol=SIGI) | Selective Insurance Group | SIGI |
+| 10 | 98 | $40.68 | [Chart](https://www.tradingview.com/chart/?symbol=POR) | Portland General Electric Company | POR |
+| 4 | 97 | $10.76 | [Chart](https://www.tradingview.com/chart/?symbol=SONO) | Sonos, Inc. Common Stock | SONO |
 | 6 | 96 | $25.28 | [Chart](https://www.tradingview.com/chart/?symbol=DRV) | Direxion Daily Real Estate Bear 3X Shares | DRV |
-| 10 | 95 | $76.49 | [Chart](https://www.tradingview.com/chart/?symbol=CNS) | Cohen & Steers Inc. | CNS |
-| 11 | 95 | $76.47 | [Chart](https://www.tradingview.com/chart/?symbol=AWR) | American States Water Company | AWR |
-| 7 | 94 | $129.71 | [Chart](https://www.tradingview.com/chart/?symbol=ICUI) | ICU Medical Inc | ICUI |
-| 8 | 94 | $71.52 | [Chart](https://www.tradingview.com/chart/?symbol=RLI) | RLI Corp. | RLI |
-| 14 | 94 | $21.26 | [Chart](https://www.tradingview.com/chart/?symbol=FLCB) | Franklin U.S. Core Bond ETF | FLCB |
-| 16 | 94 | $16.02 | [Chart](https://www.tradingview.com/chart/?symbol=BNL) | Broadstone Net Lease, Inc. | BNL |
-| 11 | 93 | $21.64 | [Chart](https://www.tradingview.com/chart/?symbol=TUA) | Simplify Short Term Treasury Futures Strategy ETF | TUA |
-| 17 | 93 | $32.35 | [Chart](https://www.tradingview.com/chart/?symbol=INVH) | Invitation Homes Inc. Common Stock | INVH |
-| 17 | 92 | $22.84 | [Chart](https://www.tradingview.com/chart/?symbol=IBTG) | iShares iBonds Dec 2026 Term Treasury ETF | IBTG |
-| 12 | 91 | $68.82 | [Chart](https://www.tradingview.com/chart/?symbol=BRC) | Brady Corporation | BRC |
-| 14 | 91 | $39.66 | [Chart](https://www.tradingview.com/chart/?symbol=TOTL) | SSgA Active ETF Trust SPDR DoubleLine Total Return Tactical ETF | TOTL |
-| 15 | 91 | $34.54 | [Chart](https://www.tradingview.com/chart/?symbol=PECO) | Phillips Edison & Company, Inc. Common Stock | PECO |
-| 18 | 91 | $47.47 | [Chart](https://www.tradingview.com/chart/?symbol=KBR) | KBR, Inc. | KBR |
-| 18 | 90 | $14.01 | [Chart](https://www.tradingview.com/chart/?symbol=DOLE) | Dole plc | DOLE |
-| 12 | 89 | $26.83 | [Chart](https://www.tradingview.com/chart/?symbol=FCPT) | Four Corners Property Trust, Inc. | FCPT |
-| 13 | 89 | $32.10 | [Chart](https://www.tradingview.com/chart/?symbol=SUPN) | Supernus Pharmaceuticals, Inc. | SUPN |
-| 22 | 89 | $83.82 | [Chart](https://www.tradingview.com/chart/?symbol=KSPI) | Joint Stock Company Kaspi.kz American Depository Shares | KSPI |
-| 23 | 88 | $105.18 | [Chart](https://www.tradingview.com/chart/?symbol=DEO) | Diageo plc | DEO |
-| 15 | 87 | $98.01 | [Chart](https://www.tradingview.com/chart/?symbol=AGG) | iShares Core U.S. Aggregate Bond ETF | AGG |
-| 16 | 86 | $105.30 | [Chart](https://www.tradingview.com/chart/?symbol=DECK) | Deckers Outdoor Corp | DECK |
-| 24 | 86 | $61.02 | [Chart](https://www.tradingview.com/chart/?symbol=UL) | Unilever plc | UL |
-| 15 | 85 | $20.38 | [Chart](https://www.tradingview.com/chart/?symbol=CON) | Concentra Group Holdings Parent, Inc. | CON |
-| 16 | 85 | $26.88 | [Chart](https://www.tradingview.com/chart/?symbol=IVT) | InvenTrust Properties Corp. | IVT |
-| 23 | 84 | $341.90 | [Chart](https://www.tradingview.com/chart/?symbol=EG) | Everest Group, Ltd. | EG |
-| 21 | 83 | $35.60 | [Chart](https://www.tradingview.com/chart/?symbol=AMH) | AMERICAN HOMES 4 RENT | AMH |
+| 7 | 96 | $26.58 | [Chart](https://www.tradingview.com/chart/?symbol=VCYT) | Veracyte, Inc. | VCYT |
+| 8 | 96 | $48.18 | [Chart](https://www.tradingview.com/chart/?symbol=SNY) | Sanofi American Depositary Shares (Each representing one-half of one ordinary share) | SNY |
+| 10 | 95 | $68.95 | [Chart](https://www.tradingview.com/chart/?symbol=BRC) | Brady Corporation | BRC |
+| 12 | 94 | $76.09 | [Chart](https://www.tradingview.com/chart/?symbol=AWR) | American States Water Company | AWR |
+| 14 | 94 | $15.92 | [Chart](https://www.tradingview.com/chart/?symbol=BNL) | Broadstone Net Lease, Inc. | BNL |
+| 16 | 93 | $32.23 | [Chart](https://www.tradingview.com/chart/?symbol=INVH) | Invitation Homes Inc. Common Stock | INVH |
+| 8 | 92 | $71.53 | [Chart](https://www.tradingview.com/chart/?symbol=RLI) | RLI Corp. | RLI |
+| 12 | 92 | $21.66 | [Chart](https://www.tradingview.com/chart/?symbol=TUA) | Simplify Short Term Treasury Futures Strategy ETF | TUA |
+| 10 | 91 | $132.54 | [Chart](https://www.tradingview.com/chart/?symbol=ICUI) | ICU Medical Inc | ICUI |
+| 14 | 91 | $39.67 | [Chart](https://www.tradingview.com/chart/?symbol=TOTL) | SSgA Active ETF Trust SPDR DoubleLine Total Return Tactical ETF | TOTL |
+| 18 | 91 | $22.84 | [Chart](https://www.tradingview.com/chart/?symbol=IBTG) | iShares iBonds Dec 2026 Term Treasury ETF | IBTG |
+| 14 | 90 | $34.35 | [Chart](https://www.tradingview.com/chart/?symbol=PECO) | Phillips Edison & Company, Inc. Common Stock | PECO |
+| 18 | 90 | $47.36 | [Chart](https://www.tradingview.com/chart/?symbol=KBR) | KBR, Inc. | KBR |
+| 18 | 88 | $14.00 | [Chart](https://www.tradingview.com/chart/?symbol=DOLE) | Dole plc | DOLE |
+| 21 | 88 | $83.58 | [Chart](https://www.tradingview.com/chart/?symbol=KSPI) | Joint Stock Company Kaspi.kz American Depository Shares | KSPI |
+| 22 | 88 | $105.19 | [Chart](https://www.tradingview.com/chart/?symbol=DEO) | Diageo plc | DEO |
+| 23 | 87 | $60.91 | [Chart](https://www.tradingview.com/chart/?symbol=UL) | Unilever plc | UL |
+| 19 | 83 | $35.47 | [Chart](https://www.tradingview.com/chart/?symbol=AMH) | AMERICAN HOMES 4 RENT | AMH |
 | 24 | 83 | $23.10 | [Chart](https://www.tradingview.com/chart/?symbol=IBHF) | iShares iBonds 2026 Term High Yield and Income ETF | IBHF |
 | 19 | 82 | $110.14 | [Chart](https://www.tradingview.com/chart/?symbol=SHV) | iShares Short Treasury Bond ETF | SHV |
-| 23 | 82 | $19.09 | [Chart](https://www.tradingview.com/chart/?symbol=MSDL) | Morgan Stanley Direct Lending Fund | MSDL |
-| 22 | 81 | $295.49 | [Chart](https://www.tradingview.com/chart/?symbol=UTHR) | United Therapeutics Corp | UTHR |
-| 23 | 80 | $41.17 | [Chart](https://www.tradingview.com/chart/?symbol=UDR) | UDR, Inc. | UDR |
-| 26 | 80 | $12.69 | [Chart](https://www.tradingview.com/chart/?symbol=PCN) | PIMCO Corporate & Income Strategy Fund | PCN |
-| 28 | 80 | $118.03 | [Chart](https://www.tradingview.com/chart/?symbol=ITGR) | Integer Holdings Corporation | ITGR |
-| 28 | 79 | $21.04 | [Chart](https://www.tradingview.com/chart/?symbol=SPT) | Sprout Social, Inc Class A Common Stock | SPT |
-| 38 | 79 | $18.38 | [Chart](https://www.tradingview.com/chart/?symbol=S) | SentinelOne, Inc. | S |
-| 29 | 78 | $346.37 | [Chart](https://www.tradingview.com/chart/?symbol=SHW) | The Sherwin-Williams Company | SHW |
-| 27 | 77 | $30.79 | [Chart](https://www.tradingview.com/chart/?symbol=AXTA) | Axalta Coating Systems Ltd. | AXTA |
-| 36 | 77 | $463.95 | [Chart](https://www.tradingview.com/chart/?symbol=LMT) | Lockheed Martin Corp. | LMT |
-| 25 | 76 | $106.53 | [Chart](https://www.tradingview.com/chart/?symbol=PDD) | PDD Holdings Inc. American Depositary Shares | PDD |
-| 32 | 76 | $30.36 | [Chart](https://www.tradingview.com/chart/?symbol=BAX) | Baxter International Inc. | BAX |
-| 25 | 75 | $25.84 | [Chart](https://www.tradingview.com/chart/?symbol=TBBB) | BBB Foods Inc. | TBBB |
-| 27 | 74 | $241.05 | [Chart](https://www.tradingview.com/chart/?symbol=RNR) | RenaissanceRe Holdings Ltd. | RNR |
-| 30 | 74 | $17.27 | [Chart](https://www.tradingview.com/chart/?symbol=NVCR) | NovoCure Limited Ordinary Shares | NVCR |
-| 32 | 74 | $12.12 | [Chart](https://www.tradingview.com/chart/?symbol=DSL) | DOUBLELINE INCOME SOLUTIONS FUND | DSL |
-| 33 | 73 | $302.92 | [Chart](https://www.tradingview.com/chart/?symbol=ACN) | Accenture PLC | ACN |
-| 31 | 72 | $39.24 | [Chart](https://www.tradingview.com/chart/?symbol=LZB) | La-Z-Boy Incorporated | LZB |
-| 38 | 71 | $29.23 | [Chart](https://www.tradingview.com/chart/?symbol=CRNX) | Crinetics Pharmaceuticals, Inc. | CRNX |
-| 34 | 67 | $15.50 | [Chart](https://www.tradingview.com/chart/?symbol=PLSE) | Pulse Biosciences, Inc Common Stock (DE) | PLSE |
-| 34 | 66 | $25.55 | [Chart](https://www.tradingview.com/chart/?symbol=BRX) | BRIXMOR PROPERTY GROUP INC. | BRX |
+| 23 | 81 | $19.07 | [Chart](https://www.tradingview.com/chart/?symbol=MSDL) | Morgan Stanley Direct Lending Fund | MSDL |
+| 22 | 79 | $40.96 | [Chart](https://www.tradingview.com/chart/?symbol=UDR) | UDR, Inc. | UDR |
+| 23 | 79 | $35.26 | [Chart](https://www.tradingview.com/chart/?symbol=LTC) | LTC Properties, Inc. | LTC |
+| 26 | 79 | $12.70 | [Chart](https://www.tradingview.com/chart/?symbol=PCN) | PIMCO Corporate & Income Strategy Fund | PCN |
+| 28 | 78 | $118.17 | [Chart](https://www.tradingview.com/chart/?symbol=ITGR) | Integer Holdings Corporation | ITGR |
+| 26 | 77 | $30.60 | [Chart](https://www.tradingview.com/chart/?symbol=AXTA) | Axalta Coating Systems Ltd. | AXTA |
+| 29 | 77 | $346.00 | [Chart](https://www.tradingview.com/chart/?symbol=SHW) | The Sherwin-Williams Company | SHW |
+| 31 | 77 | $777.66 | [Chart](https://www.tradingview.com/chart/?symbol=LLY) | Eli Lilly & Co. | LLY |
+| 35 | 77 | $463.01 | [Chart](https://www.tradingview.com/chart/?symbol=LMT) | Lockheed Martin Corp. | LMT |
+| 32 | 73 | $12.14 | [Chart](https://www.tradingview.com/chart/?symbol=DSL) | DOUBLELINE INCOME SOLUTIONS FUND | DSL |
+| 29 | 72 | $89.91 | [Chart](https://www.tradingview.com/chart/?symbol=LPX) | Louisiana-Pacific Corp. | LPX |
+| 33 | 71 | $303.33 | [Chart](https://www.tradingview.com/chart/?symbol=ACN) | Accenture PLC | ACN |
+| 31 | 70 | $39.25 | [Chart](https://www.tradingview.com/chart/?symbol=LZB) | La-Z-Boy Incorporated | LZB |
+| 33 | 68 | $17.51 | [Chart](https://www.tradingview.com/chart/?symbol=NVCR) | NovoCure Limited Ordinary Shares | NVCR |
+| 39 | 68 | $29.37 | [Chart](https://www.tradingview.com/chart/?symbol=CRNX) | Crinetics Pharmaceuticals, Inc. | CRNX |
+| 35 | 65 | $15.53 | [Chart](https://www.tradingview.com/chart/?symbol=PLSE) | Pulse Biosciences, Inc Common Stock (DE) | PLSE |
 
 ## **Methodology**
 
